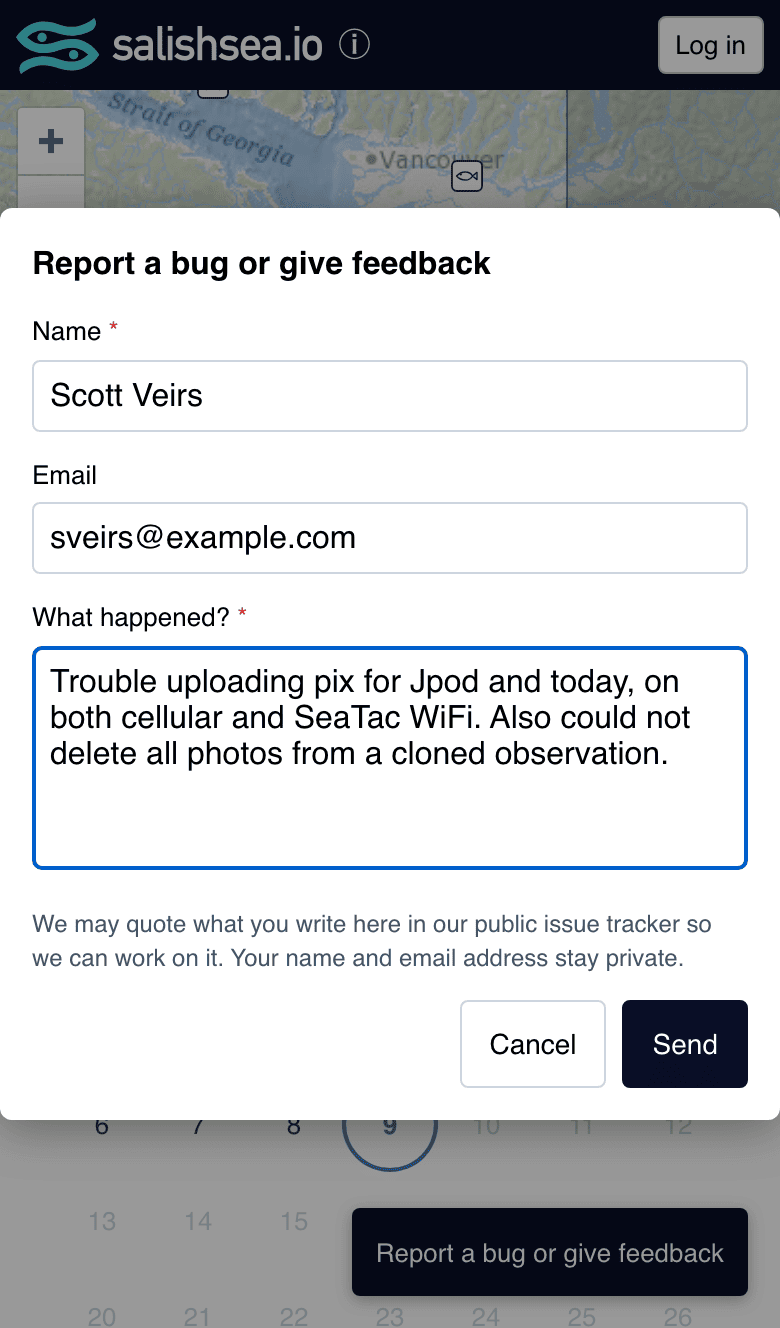
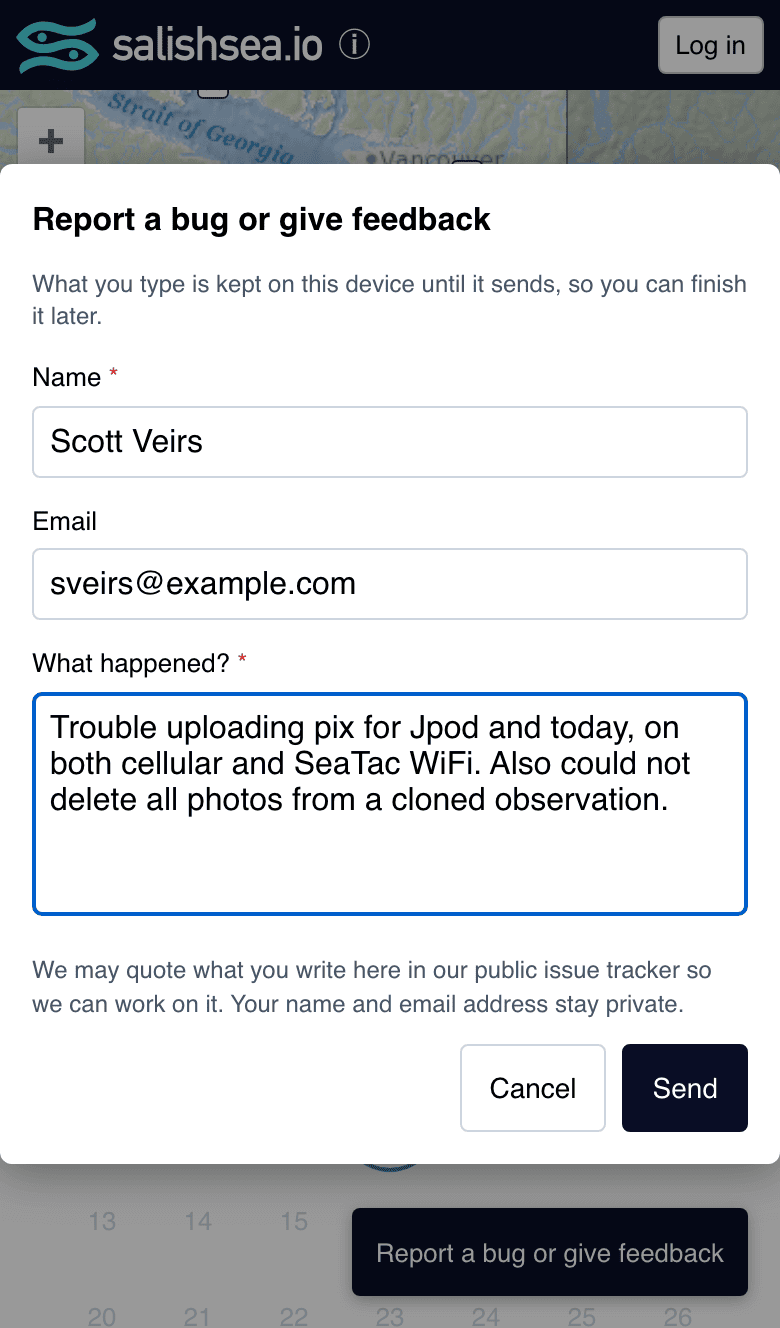
Close two paths that would have silently swallowed a report (decision 039)
Six from CodeRabbit's PR review, sharper than the CLI's. Two of them lose
feedback outright, which is the one outcome this whole change exists to
prevent.

GRANT INSERT on the whole table let a client set notified_at itself — and the
notifier only looks at rows where it IS NULL, so anyone could submit a report
pre-marked as handled and it would never be filed. The grant is now
column-level. Verified as anon: the RPC works, and setting notified_at or
github_issue directly is refused.

The row marker was matched anywhere in an issue body, so a report containing
<!-- feedback-row:999 --> would make row 999 look filed; when 999 arrived it
would be stamped with no issue created. Only the trailing run of markers counts
now. I had written a test documenting this as a limitation rather than fixing
it, which was the wrong call — a regex finding the marker was never stopped by
the fence that keeps it from rendering.

Also: both GitHub fetches now time out at 30s, since they run while the
advisory lock is held and a hang would hold it for the job's lifetime; drafts
expire after 30 days, because one holds a name, an email and free text in
cleartext on a possibly shared device; maxlength matches the column CHECKs, so
an over-long message no longer fails as "you may be offline"; and the sent and
failed messages carry role=status and role=alert.

Cancel still does not clear the draft. Closing the form is not discarding the
[…]

diff --git a/src/feedback-form.ts b/src/feedback-form.ts
@@ -11,13 +11,23 @@ export type Draft = {name: string; email: string; message: string};
 const EMPTY: Draft = {name: '', email: '', message: ''};
 
 /**
+ * How long an unsent draft is kept on the device.
+ *
+ * It holds a name, an email address and whatever was typed, in cleartext, on a
+ * device that may be shared — so it should not sit there forever. Long enough
+ * that "I'll finish this when I'm back in signal" works, short enough that a
+ * forgotten half-sentence does not outlive anyone's interest in it.
+ */
+export const DRAFT_TTL_MS = 30 * 24 * 60 * 60 * 1000;
+
+/**
  * Read the saved draft, tolerating anything that is not one.
  *
  * localStorage is shared, old versions of this app wrote to it, and a person
  * can edit it — so treat whatever comes back as untrusted and fall back to an
  * empty draft rather than throwing on the way to rendering a form.
  */
-export function readDraft(storage: Pick<Storage, 'getItem'>): Draft {
+export function readDraft(storage: Pick<Storage, 'getItem'>, now: number = Date.now()): Draft {
   let raw: string | null;
   try {
     raw = storage.getItem(DRAFT_STORAGE_KEY);
@@ -28,7 +38,10 @@ export function readDraft(storage: Pick<Storage, 'getItem'>): Draft {
   try {
     const parsed: unknown = JSON.parse(raw);
     if (typeof parsed !== 'object' || parsed === null) return EMPTY;
-    const {name, email, message} = parsed as Partial<Draft>;
+    const {name, email, message, savedAt} = parsed as Partial<Draft> & {savedAt?: unknown};
+    // Expired, or from a version that did not stamp one: either way, old enough
+    // that returning it is a privacy cost with no benefit.
+    if (typeof savedAt !== 'number' || now - savedAt > DRAFT_TTL_MS) return EMPTY;
     return {
       name: typeof name === 'string' ? name : '',
       email: typeof email === 'string' ? email : '',
@@ -199,7 +212,7 @@ export default class FeedbackForm extends LitElement {
     this.draft = {...this.draft, [field]: value};
     // A full disk, or Safari's private mode, must not stop someone typing.
     try {
-      localStorage.setItem(DRAFT_STORAGE_KEY, JSON.stringify(this.draft));
+      localStorage.setItem(DRAFT_STORAGE_KEY, JSON.stringify({...this.draft, savedAt: Date.now()}));
     } catch { /* the draft simply is not durable here */ }
     if (this.status === 'failed') this.status = 'editing';
   }
@@ -235,9 +248,12 @@ export default class FeedbackForm extends LitElement {
       name: sent.name,
       email: sent.email,
       message: sent.message,
-      page_url: location.href,
-      user_agent: navigator.userAgent,
-      release: __RELEASE__,
+      // Bounded to the column CHECKs. Over them the insert fails, and the only
+      // message we could show would be the offline one — telling somebody their
+      // connection is bad when in fact their URL is long.
+      page_url: location.href.slice(0, 2000),
+      user_agent: navigator.userAgent.slice(0, 500),
+      release: __RELEASE__.slice(0, 100),
     });
 
     if (error) {
@@ -275,7 +291,7 @@ export default class FeedbackForm extends LitElement {
 
   private renderSent() {
     return html`
-      <p class="sent">Thank you — that reached us. If you left an email address we may write back.</p>
+      <p class="sent" role="status">Thank you — that reached us. If you left an email address we may write back.</p>
       <div class="actions">
         <button class="send" type="button" @click=${this.close}>Close</button>
       </div>
@@ -285,22 +301,27 @@ export default class FeedbackForm extends LitElement {
   private renderForm() {
     return html`
       ${this.status === 'failed' ? html`
-        <p class="failed">
+        <p class="failed" role="alert">
           That didn't send — you may be offline. Your words are saved on this device,
           so you can close this and try again later without retyping them.
         </p>
       ` : nothing}
+      ${this.status === 'failed' ? nothing : html`
+        <p class="note">
+          What you type is kept on this device until it sends, so you can finish it later.
+        </p>
+      `}
       <label>
         <span>Name</span>
-        <input required .value=${this.draft.name} @input=${(e: Event) => this.#update('name', (e.target as HTMLInputElement).value)}>
+        <input required maxlength="200" .value=${this.draft.name} @input=${(e: Event) => this.#update('name', (e.target as HTMLInputElement).value)}>
       </label>
       <label>
         <span>Email</span>
-        <input type="email" .value=${this.draft.email} @input=${(e: Event) => this.#update('email', (e.target as HTMLInputElement).value)}>
+        <input type="email" maxlength="320" .value=${this.draft.email} @input=${(e: Event) => this.#update('email', (e.target as HTMLInputElement).value)}>
       </label>
       <label>
         <span>What happened?</span>
-        <textarea required .value=${this.draft.message} @input=${(e: Event) => this.#update('message', (e.target as HTMLTextAreaElement).value)}></textarea>
+        <textarea required maxlength="5000" .value=${this.draft.message} @input=${(e: Event) => this.#update('message', (e.target as HTMLTextAreaElement).value)}></textarea>
       </label>
       <p class="note">
         We may quote what you write here in our public issue tracker so we can work on it.

diff --git a/src/feedback-form.test.ts b/src/feedback-form.test.ts
@@ -28,7 +28,7 @@ vi.mock('./supabase.ts', () => ({
   }),
 }));
 
-const { readDraft, draftIsEmpty } = await import('./feedback-form.ts');
+const { readDraft, draftIsEmpty, DRAFT_TTL_MS } = await import('./feedback-form.ts');
 type Form = HTMLElement & {
   open(): void;
   updateComplete: Promise<unknown>;
@@ -94,8 +94,22 @@ describe('readDraft', () => {
   });
 
   test('a partial draft keeps what it has', () => {
-    expect(readDraft({getItem: () => '{"message":"half a thought"}'}))
+    const fresh = JSON.stringify({message: 'half a thought', savedAt: 1_000});
+    expect(readDraft({getItem: () => fresh}, 1_000))
       .toEqual({name: '', email: '', message: 'half a thought'});
+  });
+
+  test('an expired draft is dropped', () => {
+    // It holds a name, an email and whatever was typed, in cleartext, on a
+    // device that may be shared. A forgotten half-sentence should not outlive
+    // anyone's interest in it.
+    const old = JSON.stringify({message: 'from ages ago', savedAt: 0});
+    expect(draftIsEmpty(readDraft({getItem: () => old}, DRAFT_TTL_MS + 1))).toBe(true);
+    expect(readDraft({getItem: () => old}, DRAFT_TTL_MS - 1).message).toBe('from ages ago');
+  });
+
+  test('a draft with no timestamp is dropped rather than kept forever', () => {
+    expect(draftIsEmpty(readDraft({getItem: () => '{"message":"unstamped"}'}))).toBe(true);
   });
 });
 
@@ -111,7 +125,7 @@ describe('a draft in progress', () => {
   });
 
   test('comes back when the form is opened again', async () => {
-    localStorage.setItem(DRAFT_KEY, JSON.stringify({name: 'Scott', email: '', message: 'half a thought'}));
+    localStorage.setItem(DRAFT_KEY, JSON.stringify({name: 'Scott', email: '', message: 'half a thought', savedAt: Date.now()}));
     const reopened = document.createElement('feedback-form') as unknown as Form;
     document.body.appendChild(reopened);
     await reopened.updateComplete;
@@ -214,10 +228,32 @@ describe('sending', () => {
 });
 
 describe('telling people where their words go', () => {
+  test('announces the outcome to a screen reader', async () => {
+    // Both replace content without moving focus, so without a live region a
+    // screen-reader user is left not knowing whether it sent.
+    rpc.error = {message: 'Failed to fetch'};
+    el.open();
+    await typeInto(el, 'input', 'Scott');
+    await typeInto(el, 'textarea', 'something broke');
+    await send(el);
+    expect(el.shadowRoot.querySelector('.failed')?.getAttribute('role')).toBe('alert');
+
+    rpc.error = null;
+    await send(el);
+    expect(el.shadowRoot.querySelector('.sent')?.getAttribute('role')).toBe('status');
+  });
+
+  test('says the draft is kept on the device, before asking for anything', async () => {
+    el.open();
+    await el.updateComplete;
+    const notes = [...el.shadowRoot.querySelectorAll('.note')].map((n) => n.textContent!);
+    expect(notes[0]).toContain('kept on this device');
+  });
+
   test('says the message may be quoted publicly and contact details are not', async () => {
     el.open();
     await el.updateComplete;
-    const note = el.shadowRoot.querySelector('.note')!.textContent!;
+    const note = [...el.shadowRoot.querySelectorAll('.note')].map((n) => n.textContent!).join(' ');
 
     // The notifier quotes the message into a GitHub issue on a public repo.
     // Saying so is part of being allowed to do it.

diff --git a/scripts/feedback/notify.ts b/scripts/feedback/notify.ts
@@ -39,6 +39,16 @@ const DIGEST_THRESHOLD = 8;
 /** Arbitrary but fixed; only this script uses it. See main() for why. */
 const ADVISORY_LOCK_KEY = 8_390_217_004_113_705;
 
+/**
+ * How long to wait on GitHub before giving up.
+ *
+ * Both calls happen while the advisory lock is held, so a request that hangs
+ * holds it — and the workflow's concurrency slot — until the job's own timeout,
+ * which is hours. Aborting turns that into a failed run whose rows are simply
+ * picked up fifteen minutes later.
+ */
+const GITHUB_TIMEOUT_MS = 30_000;
+
 function maskDsn(error: unknown): string {
     const text = error instanceof Error ? error.message : String(error);
     return text.replace(/postgres(?:ql)?:\/\/[^\s]*/gi, 'postgres://<redacted>');
@@ -64,7 +74,7 @@ export async function unnotified(sql: Sql, limit: number): Promise<FeedbackRow[]
 async function alreadyFiled(repo: string, token: string): Promise<Set<number>> {
     const response = await fetch(
         `https://api.github.com/repos/${repo}/issues?labels=feedback&state=all&per_page=100`,
-        {headers: githubHeaders(token)},
+        {headers: githubHeaders(token), signal: AbortSignal.timeout(GITHUB_TIMEOUT_MS)},
     );
     if (!response.ok) {
         // Not fatal on its own, but proceeding blind risks duplicates, and a
@@ -93,6 +103,7 @@ async function createIssue(repo: string, token: string, issue: {title: string; b
         // load-bearing, not decoration; `needs-triage` because nobody has read
         // it yet and it should join the queue with everything else unreviewed.
         body: JSON.stringify({...issue, labels: ['feedback', 'needs-triage']}),
+        signal: AbortSignal.timeout(GITHUB_TIMEOUT_MS),
     });
     if (!response.ok) {
         throw new Error(`GitHub refused the issue: ${response.status} ${await response.text()}`);

diff --git a/scripts/feedback/issue.ts b/scripts/feedback/issue.ts
@@ -90,12 +90,27 @@ export function titleFor(row: FeedbackRow): string {
  */
 export const rowMarker = (id: number): string => `<!-- feedback-row:${id} -->`;
 
-/** Row ids already filed, read back out of existing issue bodies. */
+/**
+ * Row ids already filed, read back out of existing issue bodies.
+ *
+ * Only the run of markers at the very END of a body counts, which is where we
+ * write them. Matching anywhere would let a *report* claim a row: a message
+ * containing the marker text for row 999 would make 999 look filed, and the
+ * notifier would then stamp 999 without ever creating its issue — losing a real
+ * person's report, which is the one outcome this whole change exists to
+ * prevent. The fence stops the marker rendering; it does not stop a regex
+ * finding it.
+ */
 export function filedRowIds(bodies: readonly (string | null | undefined)[]): Set<number> {
     const ids = new Set<number>();
     for (const body of bodies) {
-        for (const [, id] of (body ?? '').matchAll(/<!-- feedback-row:(\d+) -->/g))
-            ids.add(Number(id));
+        // Walk back from the end, taking marker lines until anything else.
+        const lines = (body ?? '').trimEnd().split('\n');
+        for (let i = lines.length - 1; i >= 0; i--) {
+            const match = /^<!-- feedback-row:(\d+) -->$/.exec(lines[i]!.trim());
+            if (!match) break;
+            ids.add(Number(match[1]));
+        }
     }
     return ids;
 }

diff --git a/scripts/feedback/issue.test.ts b/scripts/feedback/issue.test.ts
@@ -85,14 +85,17 @@ describe('recognising what we already filed', () => {
         expect(filedRowIds(['just a normal issue', ''])).toEqual(new Set());
     });
 
-    test('a report that quotes a marker cannot forge one, because it is fenced', () => {
-        // The marker is real markup only outside the fence; inside, it is text.
+    test('a report quoting a marker cannot claim a row it does not own', () => {
+        // Otherwise a message containing row 999's marker would make 999 look
+        // filed, and the notifier would stamp it without creating its issue —
+        // silently losing a real person's report. Only the trailing run counts.
         const body = issueForFeedback(row({id: 7, message: rowMarker(999)})).body;
-        expect(filedRowIds([body])).toEqual(new Set([999, 7]));
-        // Both are found by a plain regex, so the notifier must not treat a
-        // match as proof on its own — it only ever skips rows it is looking at,
-        // and the worst case is one report needing a manual look. Pinned here
-        // so the limitation is on the record rather than a surprise.
+        expect(filedRowIds([body])).toEqual(new Set([7]));
+    });
+
+    test('the digest claims every row it covers', () => {
+        const body = ['some digest', rowMarker(1), rowMarker(2), rowMarker(3)].join('\n');
+        expect(filedRowIds([body])).toEqual(new Set([1, 2, 3]));
     });
 });
 

diff --git a/docs/decisions/039-feedback-goes-to-our-own-database.md b/docs/decisions/039-feedback-goes-to-our-own-database.md
@@ -52,6 +52,10 @@ The second is the one that matters, and the one the old widget got wrong: the se
 
 **Each issue carries an invisible row marker**, and the notifier reads existing issues back before filing. The GitHub POST and the `notified_at` stamp are two operations, so a runner killed between them would otherwise leave a filed issue on an unstamped row and duplicate it on the next run. Listing by label rather than searching, because GitHub's search index lags by minutes — exactly the window this closes. Two notifiers running at once would defeat that check — both would list before either filed — so the script takes a Postgres session advisory lock, which covers a hand-run alongside a scheduled one and releases itself if the runner is killed.
 
+**Two ways feedback could have been silently swallowed, both closed.** A table-wide INSERT grant would have let a client set `notified_at` itself — and the notifier only looks at rows where it is NULL, so anyone could submit a report pre-marked as handled and it would never be filed. The grant is column-level. Separately, the row marker was matched anywhere in an issue body, so a *report* containing `<!-- feedback-row:999 -->` would make row 999 look filed and the notifier would stamp it without creating its issue. Only the trailing run of markers counts. Both would have lost a real person's report, which is the one outcome this record exists to prevent.
+
+**The draft expires after 30 days.** It holds a name, an email address and whatever was typed, in cleartext, on a device that may be shared. Long enough that "I'll finish this when I'm back in signal" works; short enough that a forgotten half-sentence does not outlive anyone's interest in it. Cancel deliberately does *not* clear it — closing the form is not discarding the report, and treating it as such would reintroduce the loss this record is about.
+
 ## Consequences
 
 A person who types their own email address *into the message* will see it published, since only the `email` column is withheld. The form's note is the disclosure; redacting address-shaped strings from the body was considered and left alone rather than guessing at what is safe to mangle.
